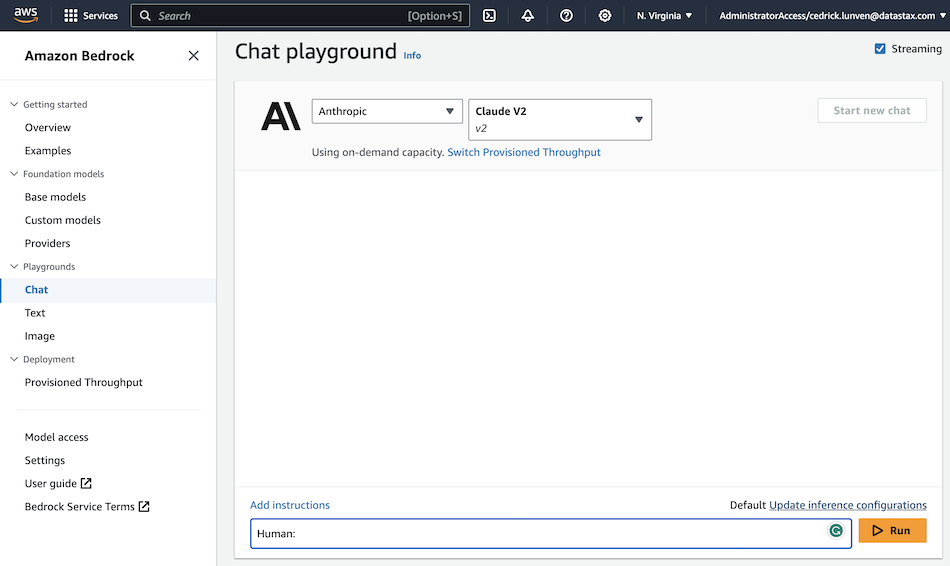
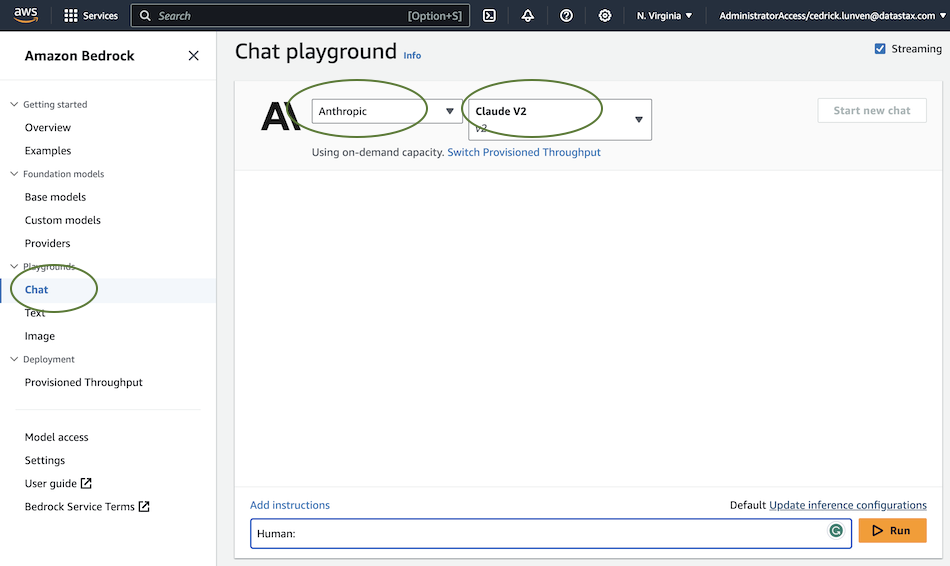
first

diff --git a/README.md b/README.md
@@ -5,14 +5,15 @@
 
 ## 📋 Table of content
 
-### Generative AI with Amazon BedRock
+<img src="./img/banner.png" align="right" width="400px"/>
+
+### Amazon BedRock
 
 - [01. Chat Playground](#)
-
 - [02. Prompt Engineering](#)
+- [02. Prompt Templates](#)
 
-
-### Setup Astra
+### DataStax Astra DB
 
 - [01. Create Astra Account](#-1---create-your-datastax-astra-account)
 - [02. Create Astra Token](#-2---create-an-astra-token)
@@ -22,11 +23,14 @@
 - [06. Create Database](#-6---create-destination-database-and-a-keyspace)
 - [07. Setup env variables](#-7---setup-env-variables)
 
-
 ### Rag demo with
 
 
-## Generative AI with Amazon Bedrock
+## Amazon Bedrock
+
+In this tutorial we will work with Amazon Bedrock on within the Amazon Management Console 
+
+![](./img/bedrock-00.png)
 
 #### ✅ `1` - Chat Playground
 
@@ -36,13 +40,34 @@
 
 - On home page select getting started
 
-![](./img/bedrock-01.png)
+![](./img/bedrock-02.png)
+
+- In the left hand side menu pick `Chat`
+
+- Select model Provider and model
+
+| Attribute | Value |
+|-----------|-------|
+| Provider  | Anthropic |
+| Model     | Claude V2 |
+
+![](./img/bedrock-03-chat.png)
+
+- In the prompt enter the question
 
 ```console
 human: Explain me what Datastax Astra Vector is
 ```
 
+![](./img/bedrock-04-chat.png)
 
+
+#### ✅ `2` - Prompt Engineering
+
+
+
+
+## AstraDB
 
 
 #### ✅ `1` - Create your DataStax Astra account
@@ -56,6 +81,7 @@ _click the image below or go to [https://astra.datastax./com](bit.ly/3QxhO6t)_
 <img src="https://awesome-astra.github.io/docs/img/astra/astra-signin-github-0.png" />
 </a>
 <br/>
+
 
 
 #### ✅ `2` - Create an Astra Token
